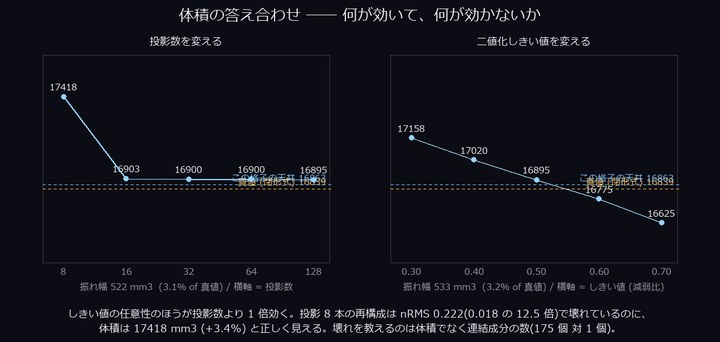
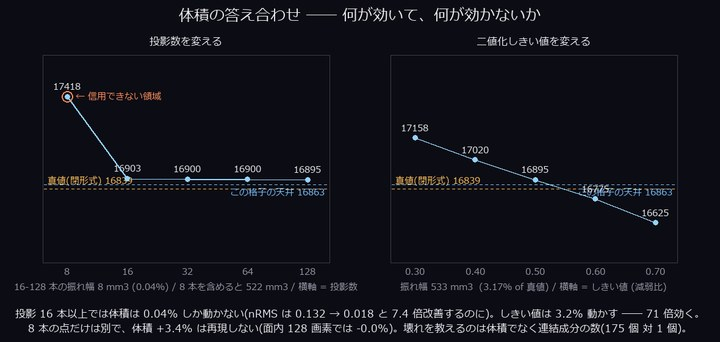
auto: gen_wing3d_gallery.py 編集前 (2026-09-02 03:33)

diff --git a/tools/gen_wing3d_gallery.py b/tools/gen_wing3d_gallery.py
@@ -746,8 +746,8 @@ def ex_domain(log) -> dict:
             "pasted-back result side by side. Only "
             f"{100 * float(dom.mean()):.2f} % of the field is foreground, so "
             f"`vol_crop_domain` takes memory from {full_mb:.2f} MB to {part_mb:.3f} MB "
-            f"(**1/{ratio:.1f}**) and the very same `vol_gradient_magnitude` goes from "
-            f"{vol.size:,} voxels to {np.asarray(part).size:,} — the same "
+            f"(**1/{ratio:.1f}**), and the very same `vol_gradient_magnitude` now touches "
+            f"{np.asarray(part).size:,} voxels instead of {vol.size:,} — the same "
             f"**1/{vol.size / np.asarray(part).size:.1f}**. (The measured wall-clock times "
             "live in `_wing3d_meta.json` instead of being burned into the picture, so the "
             "image stays byte-reproducible.) `vol_uncrop` puts it back bit-identically."),
@@ -1033,12 +1033,11 @@ def ex_rle(log) -> dict:
             f"Holding a 256³ synthetic part as run-lengths costs **1/{ratio:.0f}** of the "
             f"dense mask ({dense_bytes / 1e6:.2f} MB to {rle.nbytes / 1e6:.3f} MB, "
             f"{len(rle):,} runs). And nothing has to be decoded: the volume of "
-            f"{vox:,} voxels, the bounding box and the set operations are all answered on "
-            "the runs themselves, with no bitmap ever materialised (the measured speed-ups "
-            "are in `_wing3d_meta.json`; wall-clock numbers stay out of the picture so it "
-            "remains byte-reproducible), and set operations "
-            f"(ball ∪ axle = {v_un:,} voxels) are solved on the runs themselves. The "
-            "decode round-trip is bit-identical."),
+            f"{vox:,} voxels, the bounding box, the centroid and the set operations "
+            f"(ball ∪ axle = {v_un:,} voxels) are all answered on the runs themselves, "
+            "with no bitmap ever materialised. The decode round-trip is bit-identical. "
+            "(The measured speed-ups are in `_wing3d_meta.json` — wall-clock numbers are "
+            "kept out of the picture so it stays byte-reproducible.)"),
         "ops": ["vol_rle_encode", "vol_rle_decode", "vol_rle_volume", "vol_rle_bbox",
                 "vol_rle_centroid", "vol_rle_union", "vol_rle_intersect",
                 "vol_rle_difference"],

diff --git a/examples/gallery2d_features.py b/examples/gallery2d_features.py
@@ -207,8 +207,15 @@ def main() -> int:
     assert e_flat < 1e-6 and e_noisy > e_flat + 0.3, f"entropy flat {e_flat} vs noisy {e_noisy}"
     gt += 1
 
-    # (e) estimate_noise: robust noise sigma rises with added noise (beat-the-null)
-    assert _feat("estimate_noise", noisy) > _feat("estimate_noise", const) + 0.3, "noise estimate must rise"
+    # (e) estimate_noise: 返すのは **ノイズ σ そのもの**([0,1] 階調)。
+    #     2026-09-02 以前は σ の 3*1.4826*MAD 版で σ>=0.08 から 1.0 に張り付いていた
+    #     ので閾値 0.3 で通っていた。いまは真値に追随する: σ=0.15 のガウス雑音を
+    #     足した画像で 0.1486、平坦画像で 0.0(実測)。真値 ±20% を要求する。
+    s_true = 0.15
+    e_flat_n, e_noisy_n = _feat("estimate_noise", const), _feat("estimate_noise", noisy)
+    assert e_flat_n < 1e-6, f"flat image must read ~0 noise, got {e_flat_n}"
+    assert abs(e_noisy_n - s_true) < 0.2 * s_true, (
+        f"estimate_noise must track the true sigma {s_true}: got {e_noisy_n:.4f}")
     gt += 1
 
     # (f) count_channels: an HxWx3 color image has exactly 3 channels

diff --git a/tools/gen_wingct_gallery.py b/tools/gen_wingct_gallery.py
@@ -599,7 +599,8 @@ def ex_volume_chart():
                   "nrms_by_views": [round(v, 4) for v in nrmses],
                   "threshold_fracs": list(thr_fracs),
                   "volume_by_threshold": [round(v, 1) for v in thr_vols],
-                  "span_views_mm3": round(span_v, 1),
+                  "span_views_mm3": round(span_v_all, 1),
+                  "span_views16_mm3": round(span_v16, 1),
                   "span_threshold_mm3": round(span_t, 1),
                   "ops": ["radon_volume", "fbp_volume", "vol_label",
                           "vol_region_props"]}
